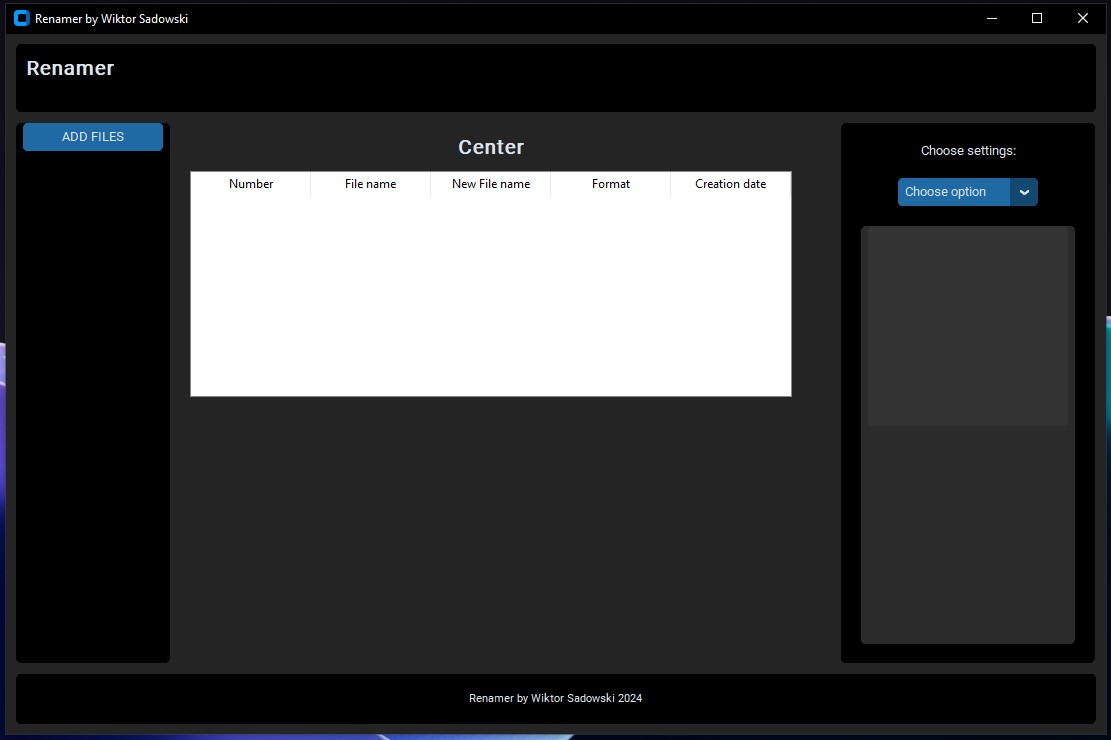
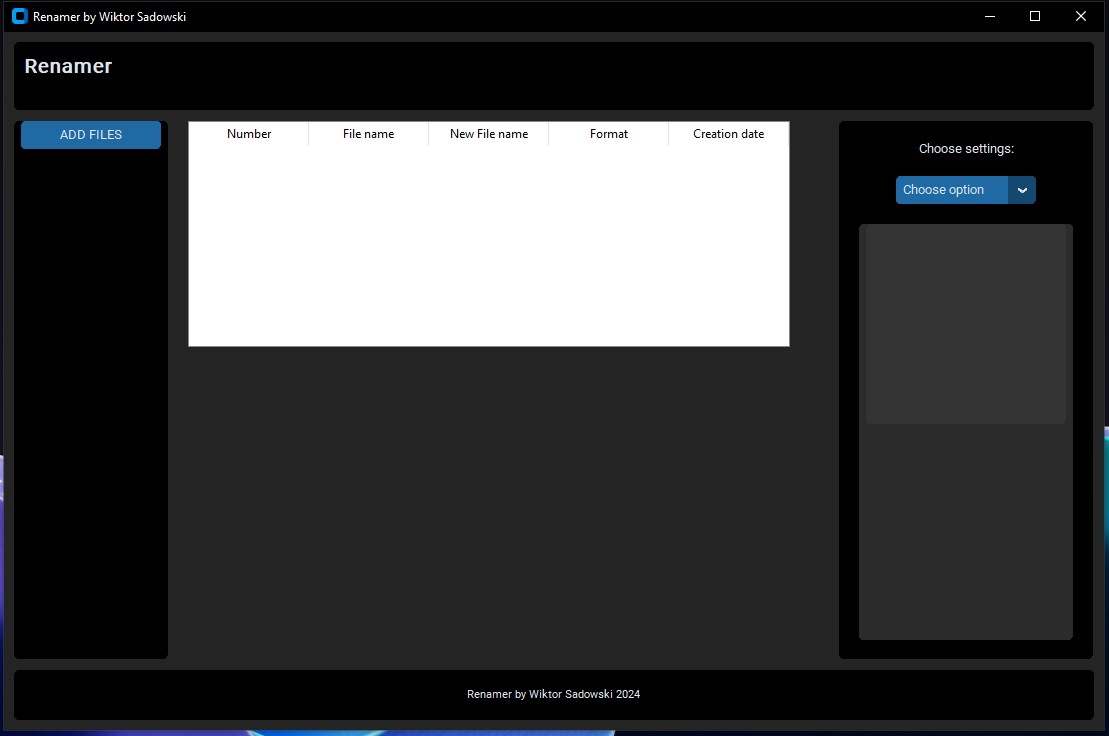
new pics for readme

diff --git a/main.py b/main.py
@@ -44,9 +44,7 @@ class App(ctk.CTk):
         #title label
         self.title_label = ctk.CTkLabel(self.title_frame, text="Renamer", font=ctk.CTkFont(size=20, weight="bold"))
         self.title_label.grid(row=0, column=0, padx=10, pady=10)
-        #center
-        #self.center_label = ctk.CTkLabel(self.center_frame, text="Center", font=ctk.CTkFont(size=20, weight="bold"))
-        #self.center_label.grid(row=0, column=0, padx=10, pady=10)
+
         #footer
         self.footer =ctk.CTkLabel(self.footer_frame, text="Renamer by Wiktor Sadowski 2024", font=ctk.CTkFont(size=11))
         self.footer.pack(expand=True)
